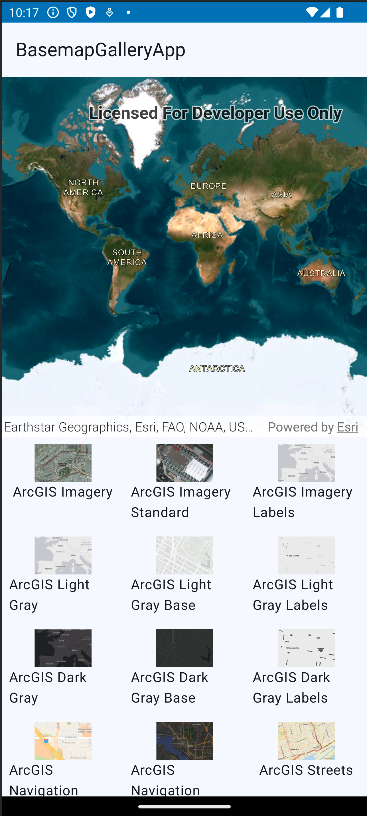
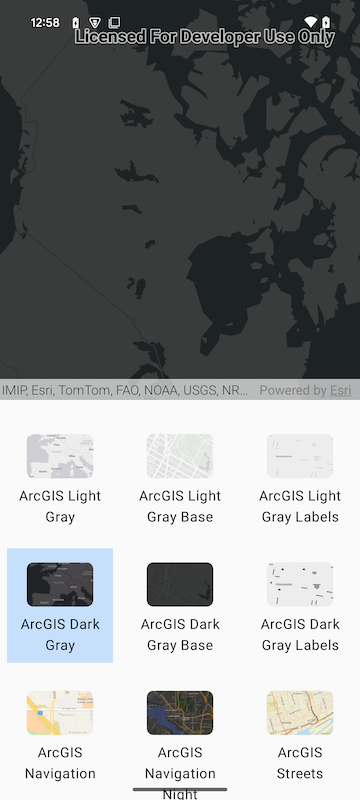
Colinanderson/basemap gallery bottom sheet (#756)
* Use a bottom sheet for the basemap gallery

* Correct copyright

* Formatting

* Blank line

* Fix whitespace

* Align text

* Rounded corners

* Start expanded

* UInused import

* Add support for portal items

* Unused imports

* Indicate which basemap is selected

* Experiment with not using a card

* Update copyright to 2025

* Update screenshot

* Update screenshot

* Resize

* Update README.md

* Update screenshot

* Fix typo

* Update README.md

* Remove log output

* Reset the viewpoint when the basemap changes

* Fix name clash bug

* Compute scalebar properties everytime the minScale, useGeodeticCalculations and units also change (#753)

* Remove commented code

* Remove unused import

* Fix merge mistake

* Refactor

* Switch to SVG for placeholder

* Add basemap gallery to main readme

* Fix blank lines

* Scalebar: Autohide delay fix (#758)

* Gallery wasn't updating the thumbnails when the items changed

* Refactor

* Code review updates

* Remove comment that only made sense when considering the micro app

* Fix typo

* Add readme for app

* Do not set initial viewpoint when changig basemap

* Code review update

* Code review update

* Code review updates

* Resize screen shot

* Upgrade versions to fix vtest problem

* Trying to fix vtest error

* Update sdkVersionNumber (#686)

* Update sdkVersionNumber, remove sdkBuildNumber property from gradle.properties
Remove logic to pick up build number from gradle.properties
[…]

diff --git a/toolkit/basemapgallery/src/main/java/com/arcgismaps/toolkit/basemapgallery/BasemapGallery.kt b/toolkit/basemapgallery/src/main/java/com/arcgismaps/toolkit/basemapgallery/BasemapGallery.kt
@@ -20,22 +20,28 @@ package com.arcgismaps.toolkit.basemapgallery
 
 import android.util.Log
 import androidx.compose.foundation.Image
+import androidx.compose.foundation.background
 import androidx.compose.foundation.clickable
-import androidx.compose.foundation.layout.Arrangement
+
 import androidx.compose.foundation.layout.Column
+import androidx.compose.foundation.layout.fillMaxSize
 import androidx.compose.foundation.layout.padding
 import androidx.compose.foundation.lazy.grid.GridCells
 import androidx.compose.foundation.lazy.grid.LazyVerticalGrid
 import androidx.compose.foundation.shape.RoundedCornerShape
+import androidx.compose.material3.MaterialTheme
 import androidx.compose.material3.Text
 import androidx.compose.runtime.Composable
 import androidx.compose.runtime.LaunchedEffect
 import androidx.compose.runtime.MutableState
+import androidx.compose.runtime.getValue
 import androidx.compose.runtime.mutableStateOf
 import androidx.compose.runtime.remember
+import androidx.compose.runtime.setValue
 import androidx.compose.ui.Alignment
 import androidx.compose.ui.Modifier
 import androidx.compose.ui.draw.clip
+import androidx.compose.ui.graphics.Color
 import androidx.compose.ui.graphics.asImageBitmap
 import androidx.compose.ui.graphics.painter.BitmapPainter
 import androidx.compose.ui.graphics.painter.Painter
@@ -51,7 +57,11 @@ import androidx.compose.ui.unit.dp
  * @since 200.7.0
  */
 @Composable
-internal fun BasemapGalleryItem(basemapGalleryItem: BasemapGalleryItem) {
+internal fun BasemapGalleryItem(
+    basemapGalleryItem: BasemapGalleryItem,
+    modifier: Modifier = Modifier,
+    selected: Boolean = false
+) {
     val placeholder = painterResource(R.drawable.basemap)
     val thumbnail: MutableState<Painter> = remember { mutableStateOf(placeholder) }
     LaunchedEffect(thumbnail) {
@@ -62,15 +72,28 @@ internal fun BasemapGalleryItem(basemapGalleryItem: BasemapGalleryItem) {
         }
     }
 
-    Image(
-        painter = thumbnail.value,
-        contentDescription = basemapGalleryItem.title,
-        modifier = Modifier.clip(RoundedCornerShape(8.dp))
-    )
-    Text(
-        text = basemapGalleryItem.title,
-        textAlign = TextAlign.Center
-    )
+    Column(
+        horizontalAlignment = Alignment.CenterHorizontally,
+        modifier = modifier
+            .background(
+                if (selected) {
+                    MaterialTheme.colorScheme.secondaryContainer
+                } else {
+                    Color.Transparent
+                }
+            )
+            .padding(8.dp)
+            .fillMaxSize()
+    ) {
+        Image(
+            painter = thumbnail.value,
+            contentDescription = basemapGalleryItem.title,
+            modifier = Modifier
+                .padding(8.dp)
+                .clip(RoundedCornerShape(8.dp))
+        )
+        Text(text = basemapGalleryItem.title, textAlign = TextAlign.Center)
+    }
 }
 
 /**
@@ -87,17 +110,21 @@ public fun BasemapGallery(
     onItemClick: (BasemapGalleryItem) -> Unit,
     modifier: Modifier = Modifier
 ) {
-    LazyVerticalGrid(modifier = modifier, columns = GridCells.Adaptive(128.dp)) {
+    var selection: BasemapGalleryItem? by remember { mutableStateOf(null) }
+
+    LazyVerticalGrid(modifier = modifier, columns = GridCells.Adaptive(minSize = 128.dp)) {
         basemapGalleryItems.forEach { basemapGalleryItem ->
             item {
-                Column(
-                    verticalArrangement = Arrangement.Center,
-                    horizontalAlignment = Alignment.CenterHorizontally,
+                BasemapGalleryItem(
+                    basemapGalleryItem,
                     modifier = Modifier
                         .padding(8.dp)
-                        .clickable { onItemClick(basemapGalleryItem) }) {
-                    BasemapGalleryItem(basemapGalleryItem)
-                }
+                        .clickable {
+                            selection = basemapGalleryItem
+                            onItemClick(basemapGalleryItem)
+                        },
+                    selection === basemapGalleryItem
+                )
             }
         }
     }

diff --git a/microapps/BasemapGalleryApp/app/src/main/java/com/arcgismaps/toolkit/basemapgalleryapp/screens/MainScreen.kt b/microapps/BasemapGalleryApp/app/src/main/java/com/arcgismaps/toolkit/basemapgalleryapp/screens/MainScreen.kt
@@ -36,6 +36,7 @@ import androidx.compose.runtime.Composable
 import androidx.compose.runtime.getValue
 import androidx.compose.runtime.mutableIntStateOf
 import androidx.compose.runtime.remember
+import androidx.compose.runtime.saveable.rememberSaveable
 import androidx.compose.runtime.setValue
 import androidx.compose.ui.Modifier
 import androidx.compose.ui.unit.dp
@@ -44,6 +45,7 @@ import com.arcgismaps.mapping.Basemap
 import com.arcgismaps.mapping.BasemapStyleInfo
 import com.arcgismaps.mapping.Item
 import com.arcgismaps.toolkit.basemapgallery.BasemapGallery
+import com.arcgismaps.toolkit.basemapgallery.BasemapGalleryItem
 import com.arcgismaps.toolkit.basemapgalleryapp.ViewModel
 import com.arcgismaps.toolkit.geoviewcompose.MapView
 
@@ -65,7 +67,17 @@ fun MainScreen() {
     )
 
     val options = remember { listOf("Basemap Styles", "Portal items") }
-    var selectedBasemapSource by remember { mutableIntStateOf(0) }
+    var selectedBasemapSource by rememberSaveable { mutableIntStateOf(0) }
+
+    val onItemClick: (BasemapGalleryItem) -> Unit = remember {
+        {
+            when (val tag = it.tag) {
+                is BasemapStyleInfo -> viewModel.changeBasemap(Basemap(basemapStyle = tag.style))
+                is Item -> viewModel.changeBasemap(Basemap(item = tag))
+                else -> Log.d("BaseMapGallery", "Item clicked: tag type is not handled")
+            }
+        }
+    }
 
     BottomSheetScaffold(
         sheetContent = {
@@ -76,32 +88,28 @@ fun MainScreen() {
                             index = index,
                             count = options.size
                         ),
-                        onClick = { selectedBasemapSource = index },
+                        onClick = {
+                            selectedBasemapSource = index
+                        },
                         selected = index == selectedBasemapSource,
                         label = { Text(label) }
                     )
                 }
             }
 
-            BasemapGallery(
-                modifier = Modifier.fillMaxHeight(fraction = 0.5f),
-                basemapGalleryItems = when (selectedBasemapSource) {
-                    0 -> viewModel.styleItems
-                    else -> viewModel.portalItems
-                },
-                onItemClick = {
-                    when (val tag = it.tag) {
-                        is BasemapStyleInfo -> {
-                            viewModel.arcGISMap.setBasemap(Basemap(basemapStyle = tag.style))
-                        }
-
-                        is Item -> {
-                            viewModel.arcGISMap.setBasemap(Basemap(item = tag))
-                        }
-
-                        else -> Log.d("BaseMapGallery", "Item clicked: tag type is not handled")
-                    }
-                })
+            if (selectedBasemapSource == 0) {
+                BasemapGallery(
+                    modifier = Modifier.fillMaxHeight(fraction = 0.5f),
+                    basemapGalleryItems = viewModel.styleItems,
+                    onItemClick = onItemClick
+                )
+            } else {
+                BasemapGallery(
+                    modifier = Modifier.fillMaxHeight(fraction = 0.5f),
+                    basemapGalleryItems = viewModel.portalItems,
+                    onItemClick = onItemClick
+                )
+            }
         },
         scaffoldState = bottomSheetScaffoldState,
         topBar = {

diff --git a/microapps/BasemapGalleryApp/app/src/main/java/com/arcgismaps/toolkit/basemapgalleryapp/ViewModel.kt b/microapps/BasemapGalleryApp/app/src/main/java/com/arcgismaps/toolkit/basemapgalleryapp/ViewModel.kt
@@ -23,9 +23,13 @@ import android.util.Log
 import androidx.compose.runtime.mutableStateListOf
 import androidx.lifecycle.AndroidViewModel
 import androidx.lifecycle.viewModelScope
+import com.arcgismaps.geometry.Point
+import com.arcgismaps.geometry.SpatialReference
 import com.arcgismaps.mapping.ArcGISMap
+import com.arcgismaps.mapping.Basemap
 import com.arcgismaps.mapping.BasemapStyle
 import com.arcgismaps.mapping.BasemapStylesService
+import com.arcgismaps.mapping.Viewpoint
 import com.arcgismaps.portal.Portal
 import com.arcgismaps.toolkit.basemapgallery.BasemapGalleryItem
 import kotlinx.coroutines.launch
@@ -45,7 +49,14 @@ class ViewModel(application: Application) : AndroidViewModel(application) {
     var portalItems = mutableStateListOf<BasemapGalleryItem>()
         private set
 
-    val arcGISMap = ArcGISMap(BasemapStyle.ArcGISImagery)
+    val arcGISMap =
+        ArcGISMap(BasemapStyle.ArcGISImagery).apply {
+            initialViewpoint =
+                Viewpoint(
+                    center = Point(-11e6, 5e6, SpatialReference.webMercator()),
+                    scale = 1e8
+                )
+        }
 
     init {
         viewModelScope.launch {
@@ -78,5 +89,15 @@ class ViewModel(application: Application) : AndroidViewModel(application) {
                     }
                 }
         }
+    }
+
+    /**
+     * Change the basemap and reset the viewpoint.
+     *
+     * @param basemap to set
+     * @since 200.7.0
+     */
+    fun changeBasemap(basemap: Basemap) {
+        arcGISMap.setBasemap(basemap)
     }
 }

diff --git a/toolkit/scalebar/src/main/java/com/arcgismaps/toolkit/scalebar/Scalebar.kt b/toolkit/scalebar/src/main/java/com/arcgismaps/toolkit/scalebar/Scalebar.kt
@@ -137,7 +137,7 @@ public fun Scalebar(
     shapes: ScalebarShapes = ScalebarDefaults.shapes(),
     labelTypography: LabelTypography = ScalebarDefaults.typography()
 ) {
-    val isScalebarVisible = remember { mutableStateOf(true) }
+    val isScalebarVisible = remember(autoHideDelay) { mutableStateOf(true) }
     LaunchedEffect(viewpoint, autoHideDelay) {
         if (autoHideDelay > Duration.ZERO && autoHideDelay != Duration.INFINITE) {
             isScalebarVisible.value = true
@@ -148,7 +148,15 @@ public fun Scalebar(
     val availableLineDisplayLength =
         measureAvailableLineDisplayLength(maxWidth.value.toDouble(), labelTypography, style)
 
-    val scalebarProperties by remember(spatialReference, viewpoint, unitsPerDip, availableLineDisplayLength) {
+    val scalebarProperties by remember(
+        minScale,
+        spatialReference,
+        viewpoint,
+        unitsPerDip,
+        availableLineDisplayLength,
+        useGeodeticCalculations,
+        units
+    ) {
         mutableStateOf(
             computeScalebarProperties(
                 minScale = minScale,
@@ -157,7 +165,7 @@ public fun Scalebar(
                 unitsPerDip = unitsPerDip,
                 maxLength = availableLineDisplayLength,
                 useGeodeticCalculations = useGeodeticCalculations,
-                units = units,
+                units = units
             )
         )
     }

diff --git a/microapps/BasemapGalleryApp/app/src/main/java/com/arcgismaps/toolkit/basemapgalleryapp/ui/theme/Color.kt b/microapps/BasemapGalleryApp/app/src/main/java/com/arcgismaps/toolkit/basemapgalleryapp/ui/theme/Color.kt
@@ -1,6 +1,6 @@
 /*
  *
- *  Copyright 2024 Esri
+ *  Copyright 2025 Esri
  *
  *  Licensed under the Apache License, Version 2.0 (the "License");
  *  you may not use this file except in compliance with the License.

diff --git a/README.md b/README.md
@@ -5,6 +5,7 @@ The ArcGIS Maps SDK for Kotlin Toolkit contains components that will simplify yo
 ## Toolkit Components
 
 * **[Authenticator](toolkit/authentication)** - Displays a user interface when network and ArcGIS authentication challenges occur.
+* **[Basemap Gallery](toolkit/basemapgallery)** - Provides a control for selecting basemaps
 * **[Compass](toolkit/compass)** - Shows a compass direction when the map is rotated. Auto-hides when the map points north.
 * **[FeatureForms](toolkit/featureforms)** - Provides a UI for editing feature attributes.
 * **[FloorFilter](toolkit/indoors)** - Allows filtering of floor plan data in a geo view by a site, a facility in the site, or a floor in the facility.
@@ -48,6 +49,7 @@ The *ArcGIS Maps SDK for Kotlin Toolkit* is released with a "bill of materials" 
 ```
 implementation(platform("com.esri:arcgis-maps-kotlin-toolkit-bom:200.6.0"))
 implementation("com.esri:arcgis-maps-kotlin-toolkit-authentication")
+implementation("com.esri:arcgis-maps-kotlin-toolkit-basemapgallery")
 implementation("com.esri:arcgis-maps-kotlin-toolkit-compass")
 implementation("com.esri:arcgis-maps-kotlin-toolkit-featureforms")
 implementation("com.esri:arcgis-maps-kotlin-toolkit-geoview-compose")

diff --git a/toolkit/basemapgallery/README.md b/toolkit/basemapgallery/README.md
@@ -4,8 +4,21 @@ The Basemap Gallery displays a grid of available basemap styles. The gallery acc
 ![Screenshot](screenshot.png)
 
 ### Basic usage for displaying a Basemap Gallery
-A simple workflow is to disply the Basemap Gallery below a Map View and use the `onItemClick` to set the map of the Map View.
+A simple workflow is to display the Basemap Gallery below a Map View and use the `onItemClick` to set the map of the Map View.
 
+Use the following code to create the `BasemapGalleryItem`s
+```kotlin
+viewModelScope.launch {
+    val service = BasemapStylesService()
+    service.load().getOrThrow()
+
+    service.info?.stylesInfo?.forEach { basemapStyleInfo ->
+        val galleryItem = BasemapGalleryItem(basemapStyleInfo)
+        items.add(galleryItem)
+    }
+}
+```
+then create the UI with the `BasemapGallery` using those items like this
 ```kotlin
 Column {
         MapView(

diff --git a/microapps/BasemapGalleryApp/README.md b/microapps/BasemapGalleryApp/README.md
@@ -1,0 +1,14 @@
+# Basemap Gallery Micro-app
+
+This micro-app demonstrates the use of the `BasemapGallery` toolkit component which allows browsing
+a selection of basemaps and setting them on the map.
+
+![Screenshot](screenshot.png)
+
+## Usage
+
+The application shows a map view and a bottom sheet containing a basemap gallery and a segmented
+button for selecting to display basemaps from a style service or a Portal. Once the gallery has been
+populated clicking on a basemap will set that basemap on the map in the map view.
+
+For more information on the `BasemapGallery` component and how it works, see it's [Readme](../../toolkit/basemapgallery/README.md).
